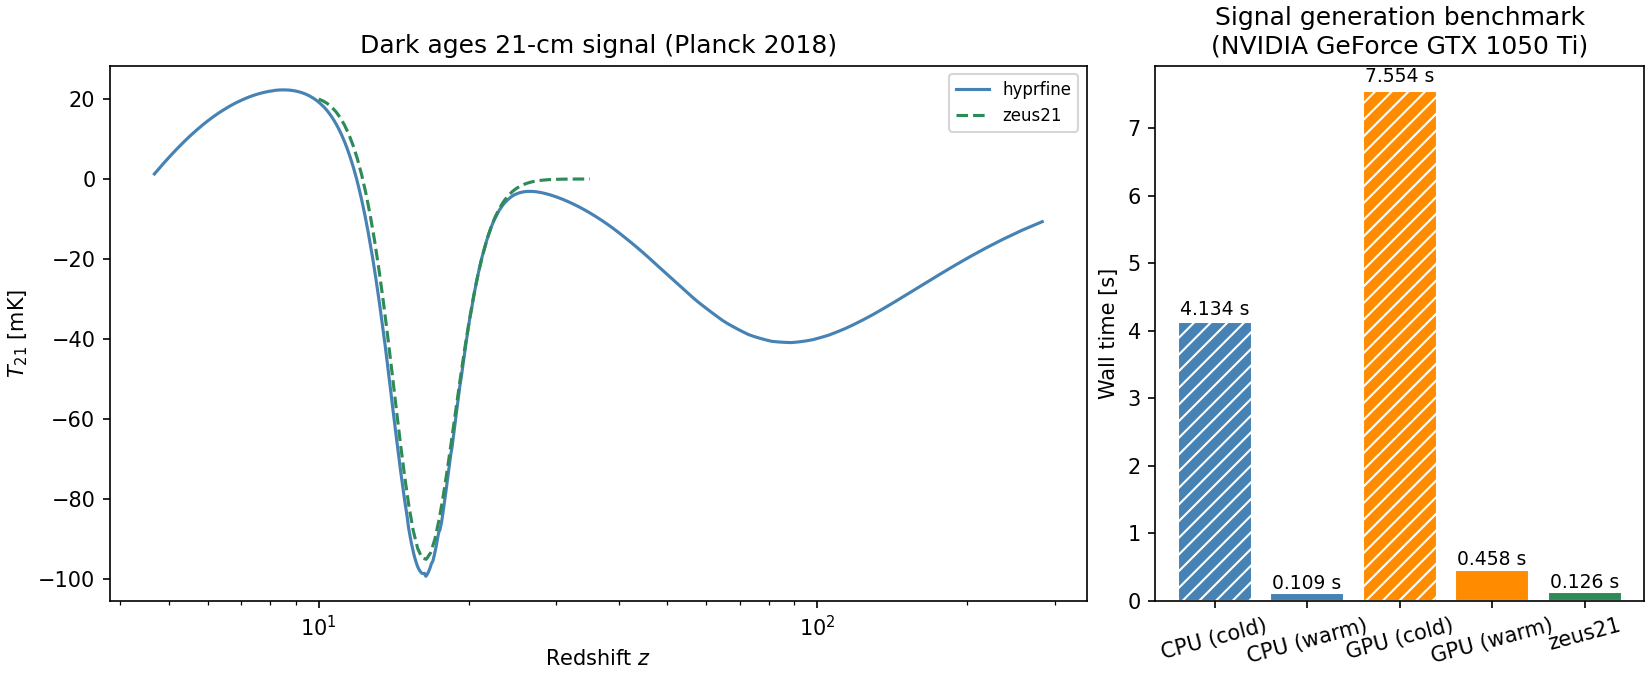
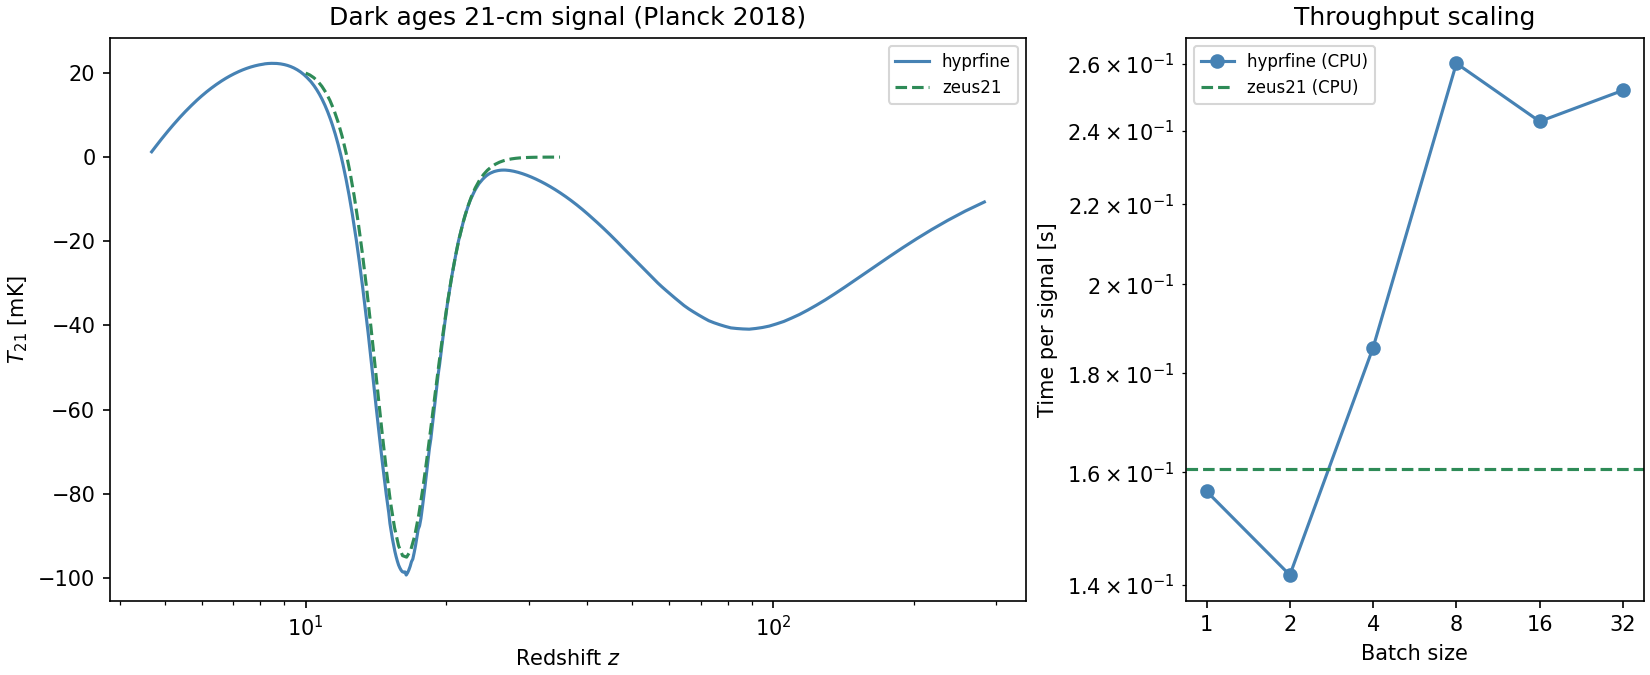
faffing with the benchmark code again

diff --git a/bin/benchmark.py b/bin/benchmark.py
@@ -1,5 +1,7 @@
 """Benchmark hyprfine signal generation on CPU (and CUDA GPU if available)."""
 
+import platform
+import subprocess
 import sys
 import time
 from pathlib import Path
@@ -64,30 +66,94 @@ astro = astrophysics(
 f_grid = jnp.linspace(5.0, 250.0, 500)  # MHz
 
 
+def get_cpu_name() -> str:
+    system = platform.system()
+    try:
+        if system == "Darwin":
+            for key in ("machdep.cpu.brand_string", "hw.chip_name"):
+                try:
+                    name = subprocess.check_output(
+                        ["sysctl", "-n", key], stderr=subprocess.DEVNULL,
+                    ).decode().strip()
+                    if name:
+                        return name
+                except subprocess.CalledProcessError:
+                    continue
+        elif system == "Linux":
+            with open("/proc/cpuinfo") as fh:
+                for line in fh:
+                    if line.startswith("model name"):
+                        return line.split(":", 1)[1].strip()
+    except Exception:
+        pass
+    return platform.processor() or "CPU"
+
+
+batch_sizes = [1, 2, 4, 8, 16, 32, 64]
+batched_generate = jax.vmap(generate_signal, in_axes=(None, 0, 0))
+cpu_name = get_cpu_name()
+
+
+def make_batched_params(n: int) -> tuple:
+    bc = cosmology(
+        H0=jnp.full(n, H0),
+        Omega_b=jnp.full(n, Omega_b),
+        Omega_c=jnp.full(n, Omega_c),
+        Y_He=jnp.full(n, Y_He),
+        ns=jnp.full(n, ns),
+        ln1010As=jnp.full(n, ln1010As),
+    )
+    ba = astrophysics(
+        epsilon=jnp.full(n, epsilon),
+        alpha_star=jnp.full(n, alpha_star),
+        beta_star=jnp.full(n, beta_star),
+        M_pivot=jnp.full(n, M_pivot),
+        L40=jnp.full(n, L40),
+        alpha_x=jnp.full(n, alpha_x),
+        nu_0=jnp.full(n, E0_keV),
+        alpha_low=jnp.full(n, alpha_low),
+        alpha_high=jnp.full(n, alpha_high),
+        N_alpha=jnp.full(n, N_alpha),
+        f_esc=jnp.full(n, f_esc),
+        N_ion=jnp.full(n, N_ion),
+    )
+    return bc, ba
+
+
 def time_device(device: jax.Device) -> tuple[float, float]:
-    """Time cold and warm signal generation on a given JAX device.
-
-    Args:
-        device: JAX device to run on.
-
-    Returns:
-        Tuple of (cold_time, warm_time) in seconds.
-    """
     f = jax.device_put(f_grid, device)
 
-    # Cold run — includes JIT compilation
     t0 = time.perf_counter()
     sig, xe, T_gas = generate_signal(f, planck, astro)
     jax.block_until_ready(sig)
     cold = time.perf_counter() - t0
 
-    # Warm run
     t0 = time.perf_counter()
     sig, xe, T_gas = generate_signal(f, planck, astro)
     jax.block_until_ready(sig)
     warm = time.perf_counter() - t0
 
     return cold, warm, sig
+
+
+def bench_batched(device: jax.Device) -> list[float]:
+    """Return warm time-per-signal for each batch size."""
+    f = jax.device_put(f_grid, device)
+    times = []
+    for bs in batch_sizes:
+        bc, ba = make_batched_params(bs)
+        bc = jax.device_put(bc, device)
+        ba = jax.device_put(ba, device)
+        # cold — includes compilation for this batch size
+        sigs, _, _ = batched_generate(f, bc, ba)
+        jax.block_until_ready(sigs)
+        # warm
+        t0 = time.perf_counter()
+        sigs, _, _ = batched_generate(f, bc, ba)
+        jax.block_until_ready(sigs)
+        times.append((time.perf_counter() - t0) / bs)
+        print(f"    batch={bs:3d}  {times[-1]:.3f} s/signal")
+    return times
 
 
 # ---------------------------------------------------------------------------
@@ -97,12 +163,13 @@ cpu = jax.devices("cpu")[0]
 print("Benchmarking CPU...")
 cpu_cold, cpu_warm, signal = time_device(cpu)
 print(f"  Cold: {cpu_cold:.3f} s   Warm: {cpu_warm:.3f} s")
-
-results = {"CPU (cold)": cpu_cold, "CPU (warm)": cpu_warm}
+print("  Batch benchmark (CPU):")
+cpu_batch_times = bench_batched(cpu)
 
 # ---------------------------------------------------------------------------
 # Optionally benchmark CUDA GPU
 # ---------------------------------------------------------------------------
+gpu_batch_times = None
 try:
     if not skip_gpu:
         gpus = jax.devices("gpu")
@@ -111,8 +178,8 @@ try:
             print(f"Benchmarking GPU ({gpu.device_kind})...")
             gpu_cold, gpu_warm, _ = time_device(gpu)
             print(f"  Cold: {gpu_cold:.3f} s   Warm: {gpu_warm:.3f} s")
-            results["GPU (cold)"] = gpu_cold
-            results["GPU (warm)"] = gpu_warm
+            print(f"  Batch benchmark (GPU):")
+            gpu_batch_times = bench_batched(gpu)
 except RuntimeError:
     gpus = None
     print("No CUDA GPU found — skipping GPU benchmark.")
@@ -152,19 +219,16 @@ T21c = zeus21.get_T21_coefficients(
 z21_time = time.perf_counter() - t0
 print(f"  {z21_time:.3f} s")
 
-results["zeus21"] = z21_time
-
 # ---------------------------------------------------------------------------
-# Plot: signal + bar chart
+# Plot: signal + time-per-signal vs batch size
 # ---------------------------------------------------------------------------
 fig = plt.figure(figsize=(11, 4.5), constrained_layout=True)
 gs = fig.add_gridspec(1, 3)
 ax_sig = fig.add_subplot(gs[0, :2])
-ax_bar = fig.add_subplot(gs[0, 2])
+ax_batch = fig.add_subplot(gs[0, 2])
 
 # Signal
 z_grid = 1420.4 / np.array(f_grid) - 1
-print("z_grid:", z_grid.min(), "-", z_grid.max())
 ax_sig.plot(
     z_grid, np.array(signal), color="steelblue", lw=1.5, label="hyprfine",
 )
@@ -174,44 +238,32 @@ ax_sig.plot(
 )
 ax_sig.set_xlabel("Redshift $z$")
 ax_sig.set_ylabel(r"$T_{21}$ [mK]")
-ax_sig.set_title("Dark ages 21-cm signal (Planck 2018)")
+ax_sig.set_title("21-cm signal")
 ax_sig.set_xscale("log")
 ax_sig.legend(fontsize=8)
 
-# Bar chart
-labels = list(results.keys())
-print(labels)
-times = list(results.values())
-colours = [
-    "seagreen" if "zeus21" in ll
-    else "steelblue" if "CPU" in ll
-    else "darkorange"
-    for ll in labels
-]
-hatches = [
-    "" if ("warm" in ll.lower() or "zeus21" in ll) else "///"
-    for ll in labels
-]
-bars = ax_bar.bar(
-    labels, times, color=colours, hatch=hatches, edgecolor="white"
+# Time-per-signal vs batch size
+ax_batch.plot(
+    batch_sizes, cpu_batch_times,
+    color="steelblue", marker="o", lw=1.5, label=f"hyprfine ({cpu_name})",
 )
-for bar, t in zip(bars, times):
-    ax_bar.text(
-        bar.get_x() + bar.get_width() / 2,
-        bar.get_height() * 1.01,
-        f"{t:.3f} s",
-        ha="center",
-        va="bottom",
-        fontsize=9,
+if gpu_batch_times is not None:
+    ax_batch.plot(
+        batch_sizes, gpu_batch_times,
+        color="darkorange", marker="s", lw=1.5,
+        label=f"hyprfine ({gpu.device_kind})",
     )
-ax_bar.set_ylabel("Wall time [s]")
-if gpus:
-    ax_bar.set_title(
-        "Signal generation benchmark\n" + "(" + gpu.device_kind + ")"
-    )
-else:
-    ax_bar.set_title("Signal generation benchmark")
-ax_bar.tick_params(axis="x", rotation=15)
+ax_batch.axhline(
+    z21_time, color="seagreen", ls="--", lw=1.5, label="zeus21 (CPU)",
+)
+ax_batch.set_xlabel("Batch size")
+ax_batch.set_ylabel("Time per signal [s]")
+ax_batch.set_title("Throughput scaling")
+ax_batch.set_xscale("log", base=2)
+ax_batch.set_yscale("log")
+ax_batch.set_xticks(batch_sizes)
+ax_batch.set_xticklabels([str(b) for b in batch_sizes])
+ax_batch.legend(fontsize=8)
 
 plt.savefig("bin/benchmark.png", dpi=150)
 print("Saved benchmark.png")
